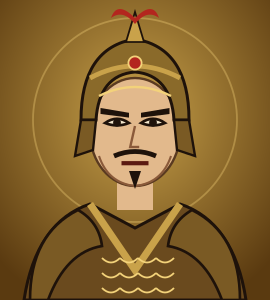
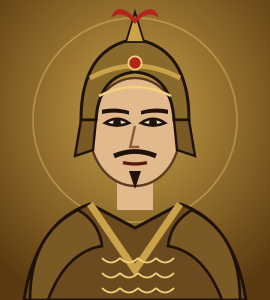
Chân dung: nét mặt dịu lại – ta điềm tĩnh tự tin, địch nghiêm lạnh
Claude-Session: https://claude.ai/code/session_012GwE9AoY71FaHC6vswvg8J

diff --git a/scripts/video/nhanvat.py b/scripts/video/nhanvat.py
@@ -47,15 +47,12 @@ def _vector_svg(c, w=270, h=300):
             o.append(f'<path d="M{ex-4},41 Q{ex},{38.6 if fierce else 38.2} {ex+4},41 Q{ex},42.6 {ex-4},41 Z" fill="#F2E6CC" stroke="#1E120A" stroke-width="0.9"/>')
             o.append(f'<circle cx="{ex + (0.6 if fierce else 0)*sgn*-1:.1f}" cy="40.9" r="1.3" fill="#1E120A"/>')
             o.append(f'<path d="M{ex-4.4},{40.6 if fierce else 40.2} L{ex+4.4},{39.4 if sgn>0 else 41.6}" stroke="#1E120A" stroke-width="1.1" transform="scale(1 1)"/>' if False else '')
-        if fierce:   # mày cau dựng ngược, nếp nhăn giữa trán, miệng trễ xuống
-            o += ['<path d="M33,34 L43,38.4 L42.4,39.6 L33,36 Z" fill="#1E120A"/><path d="M57,34 L47,38.4 L47.6,39.6 L57,36 Z" fill="#1E120A"/>',
-                  '<path d="M44,33 l0.4,4 M46,33 l-0.4,4" stroke="#8A5A3A" stroke-width="0.6"/>',
-                  '<path d="M40,55.5 q5,-2.6 10,0" stroke="#5A1A12" stroke-width="1.3" fill="none"/>',
-                  '<path d="M36,47 q2,2 4,2.4 M54,47 q-2,2 -4,2.4" stroke="#8A5A3A" stroke-width="0.6" fill="none"/>']
-        else:        # dũng mãnh: mày rậm thẳng hơi xếch, miệng mím chặt, cằm vuông
-            o += ['<path d="M33.5,36 L43,37.6 L43,39.2 L33.5,38 Z" fill="#1E120A"/><path d="M56.5,36 L47,37.6 L47,39.2 L56.5,38 Z" fill="#1E120A"/>',
-                  '<path d="M40.5,54.4 h9" stroke="#5A1A12" stroke-width="1.4"/>',
-                  '<path d="M33,52 Q36,61 45,62 Q54,61 57,52" stroke="#8A5A3A" stroke-width="0.7" fill="none"/>']
+        if fierce:   # nghiêm, lạnh: mày hơi chau, miệng hơi trễ – không quá dữ
+            o += ['<path d="M34,35.6 Q38.5,36 43,38.2 L42.8,39.2 Q38.5,37.4 34,37.2 Z" fill="#1E120A"/><path d="M56,35.6 Q51.5,36 47,38.2 L47.2,39.2 Q51.5,37.4 56,37.2 Z" fill="#1E120A"/>',
+                  '<path d="M41,55 q4,-1.2 8,0" stroke="#5A1A12" stroke-width="1.1" fill="none"/>']
+        else:        # điềm tĩnh, tự tin: mày rậm vừa, hơi xếch; miệng thẳng, khoé hơi nhếch
+            o += ['<path d="M34,36.6 Q38.5,35.6 43,37 L43,38.2 Q38.5,37 34,38 Z" fill="#1E120A"/><path d="M56,36.6 Q51.5,35.6 47,37 L47,38.2 Q51.5,37 56,38 Z" fill="#1E120A"/>',
+                  '<path d="M41,54.2 q4,0.9 8,0" stroke="#5A1A12" stroke-width="1.1" fill="none"/>']
     if c['beard'] == 'ria':
         o.append('<path d="M38,52 q7,-3 14,0" stroke="#1E120A" stroke-width="1.6" fill="none"/><path d="M43,57 l2,6 l2,-6" fill="#1E120A"/>')
     if c['beard'] == 'dai':

diff --git a/scripts/hieuung/demo.py b/scripts/hieuung/demo.py
@@ -60,7 +60,7 @@ def banner(x, y, name, side, s=0.42, tilt=0, op=1.0, grey=0.0, outline=0.0, img=
          '<line x1="-78" y1="-268" x2="78" y2="-268" stroke="#3A2618" stroke-width="7"/>',
          f'<rect x="-70" y="-266" width="140" height="190" fill="{col}" stroke="{dark}" stroke-width="5"/>',
          f'<rect x="-70" y="-266" width="140" height="40" fill="{KEM}" stroke="{dark}" stroke-width="4"/>',
-         f'<text x="0" y="-238" font-family="Be Vietnam Pro SemiBold" font-size="{min(22, 200/max(1,len(name))):.1f}" fill="#2A1A10" text-anchor="middle">{name}</text>',
+         f'<text x="0" y="-238" font-family="Be Vietnam Pro SemiBold" font-size="{min(22, 165/max(1,len(name))):.1f}" fill="#2A1A10" text-anchor="middle">{name}</text>',
          (f'<svg x="-64" y="-224" width="128" height="144" viewBox="0 0 90 100" preserveAspectRatio="xMidYMid slice"><image href="{img}" width="90" height="100" preserveAspectRatio="xMidYMid slice"/></svg>'
           f'<rect x="-64" y="-224" width="128" height="144" fill="#808080" opacity="{0.75*grey:.2f}"/><rect x="-64" y="-224" width="128" height="144" fill="none" stroke="{dark}" stroke-width="3"/>'
           if img else
